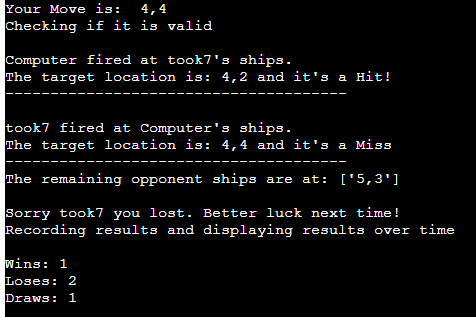
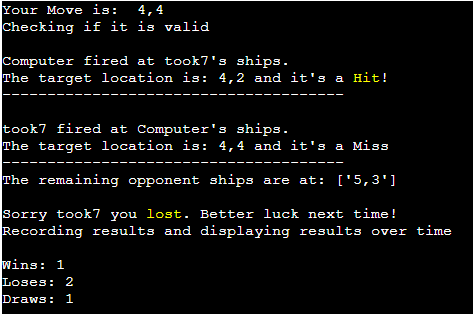
updated screenshots for colorama

Changed region(s): [[0.0, 0.0, 1.0, 1.0], [0.7104, 0.5446, 0.8584, 0.6019]]

diff --git a/run.py b/run.py
@@ -7,8 +7,7 @@ import gspread
 from google.oauth2.service_account import Credentials
 
 # Colorama module
-import colorama
-from colorama import Fore, Back, Style
+from colorama import Fore
 
 SCOPE = [
     "https://www.googleapis.com/auth/spreadsheets",
@@ -242,11 +241,11 @@ def setup_battleships(user):
 
     players_input_moves = []
     computer_potential_moves = [
-        '1,5', '3,4', '1,1', '2,3', '1,4',
-        '5,1', '3,3', '5,5', '3,1', '2,2',
-        '4,3', '3,5', '4,1', '4,4', '5,3',
-        '2,1', '4,5', '4,2', '2,4', '3,2',
-        '1,2', '5,4', '2,5', '1,3', '5,2'
+        '1,2', '5,2', '2,5', '1,3', '5,4',
+        '5,1', '3,1', '5,5', '3,3', '2,2',
+        '4,4', '3,5', '4,1', '4,3', '5,3',
+        '1,1', '3,4', '1,5', '2,3', '1,4',
+        '2,4', '4,5', '4,2', '2,1', '3,2'
         ]
 
     player_ships_locations = ship_generator()
@@ -363,11 +362,12 @@ def display_results_table(result, user):
         draw = score.col_values(4)[username_place]
 
     if result == 'W':
-        print(f"Congratulations {user}, you WON!")
+        print(f"Congratulations {user}, you {Fore.YELLOW} WON! {Fore.WHITE}")
         if user != 'Guest':
             win = int(win) + 1
     elif result == 'L':
-        print(f"Sorry {user} you lost. Better luck next time!")
+        print(f"Sorry {user} you {Fore.YELLOW}lost{Fore.WHITE}.")
+        print("Better luck next time!")
         if user != 'Guest':
             lose = int(lose) + 1
     elif result == 'D':
@@ -452,14 +452,34 @@ def check_moves(ship_data, user):
 
     if len(ship_data[0]) != 0 and len(ship_data[1]) == 0:
         # player wins
+        input("Press enter to see the map.")
+        player_board = ship_data[4]
+        computer_board = ship_data[5]
+
+        print_boards(computer_board, player_board, user)
+
         print(f"Your remaining ships are at: {ship_data[0]}\n")
+
         return 'W'
     if len(ship_data[1]) != 0 and len(ship_data[0]) == 0:
         # computer wins
+        input("Press enter to see the map.")
+
+        player_board = ship_data[4]
+        computer_board = ship_data[5]
+
+        print_boards(computer_board, player_board, user)
+
         print(f"The remaining opponent ships are at: {ship_data[1]}\n")
         return 'L'
     if len(ship_data[0]) == 0 and len(ship_data[1]) == 0:
         # both sides were destroyed in the same round -> draw
+
+        player_board = ship_data[4]
+        computer_board = ship_data[5]
+
+        print_boards(computer_board, player_board, user)
+
         return 'D'
 
 
